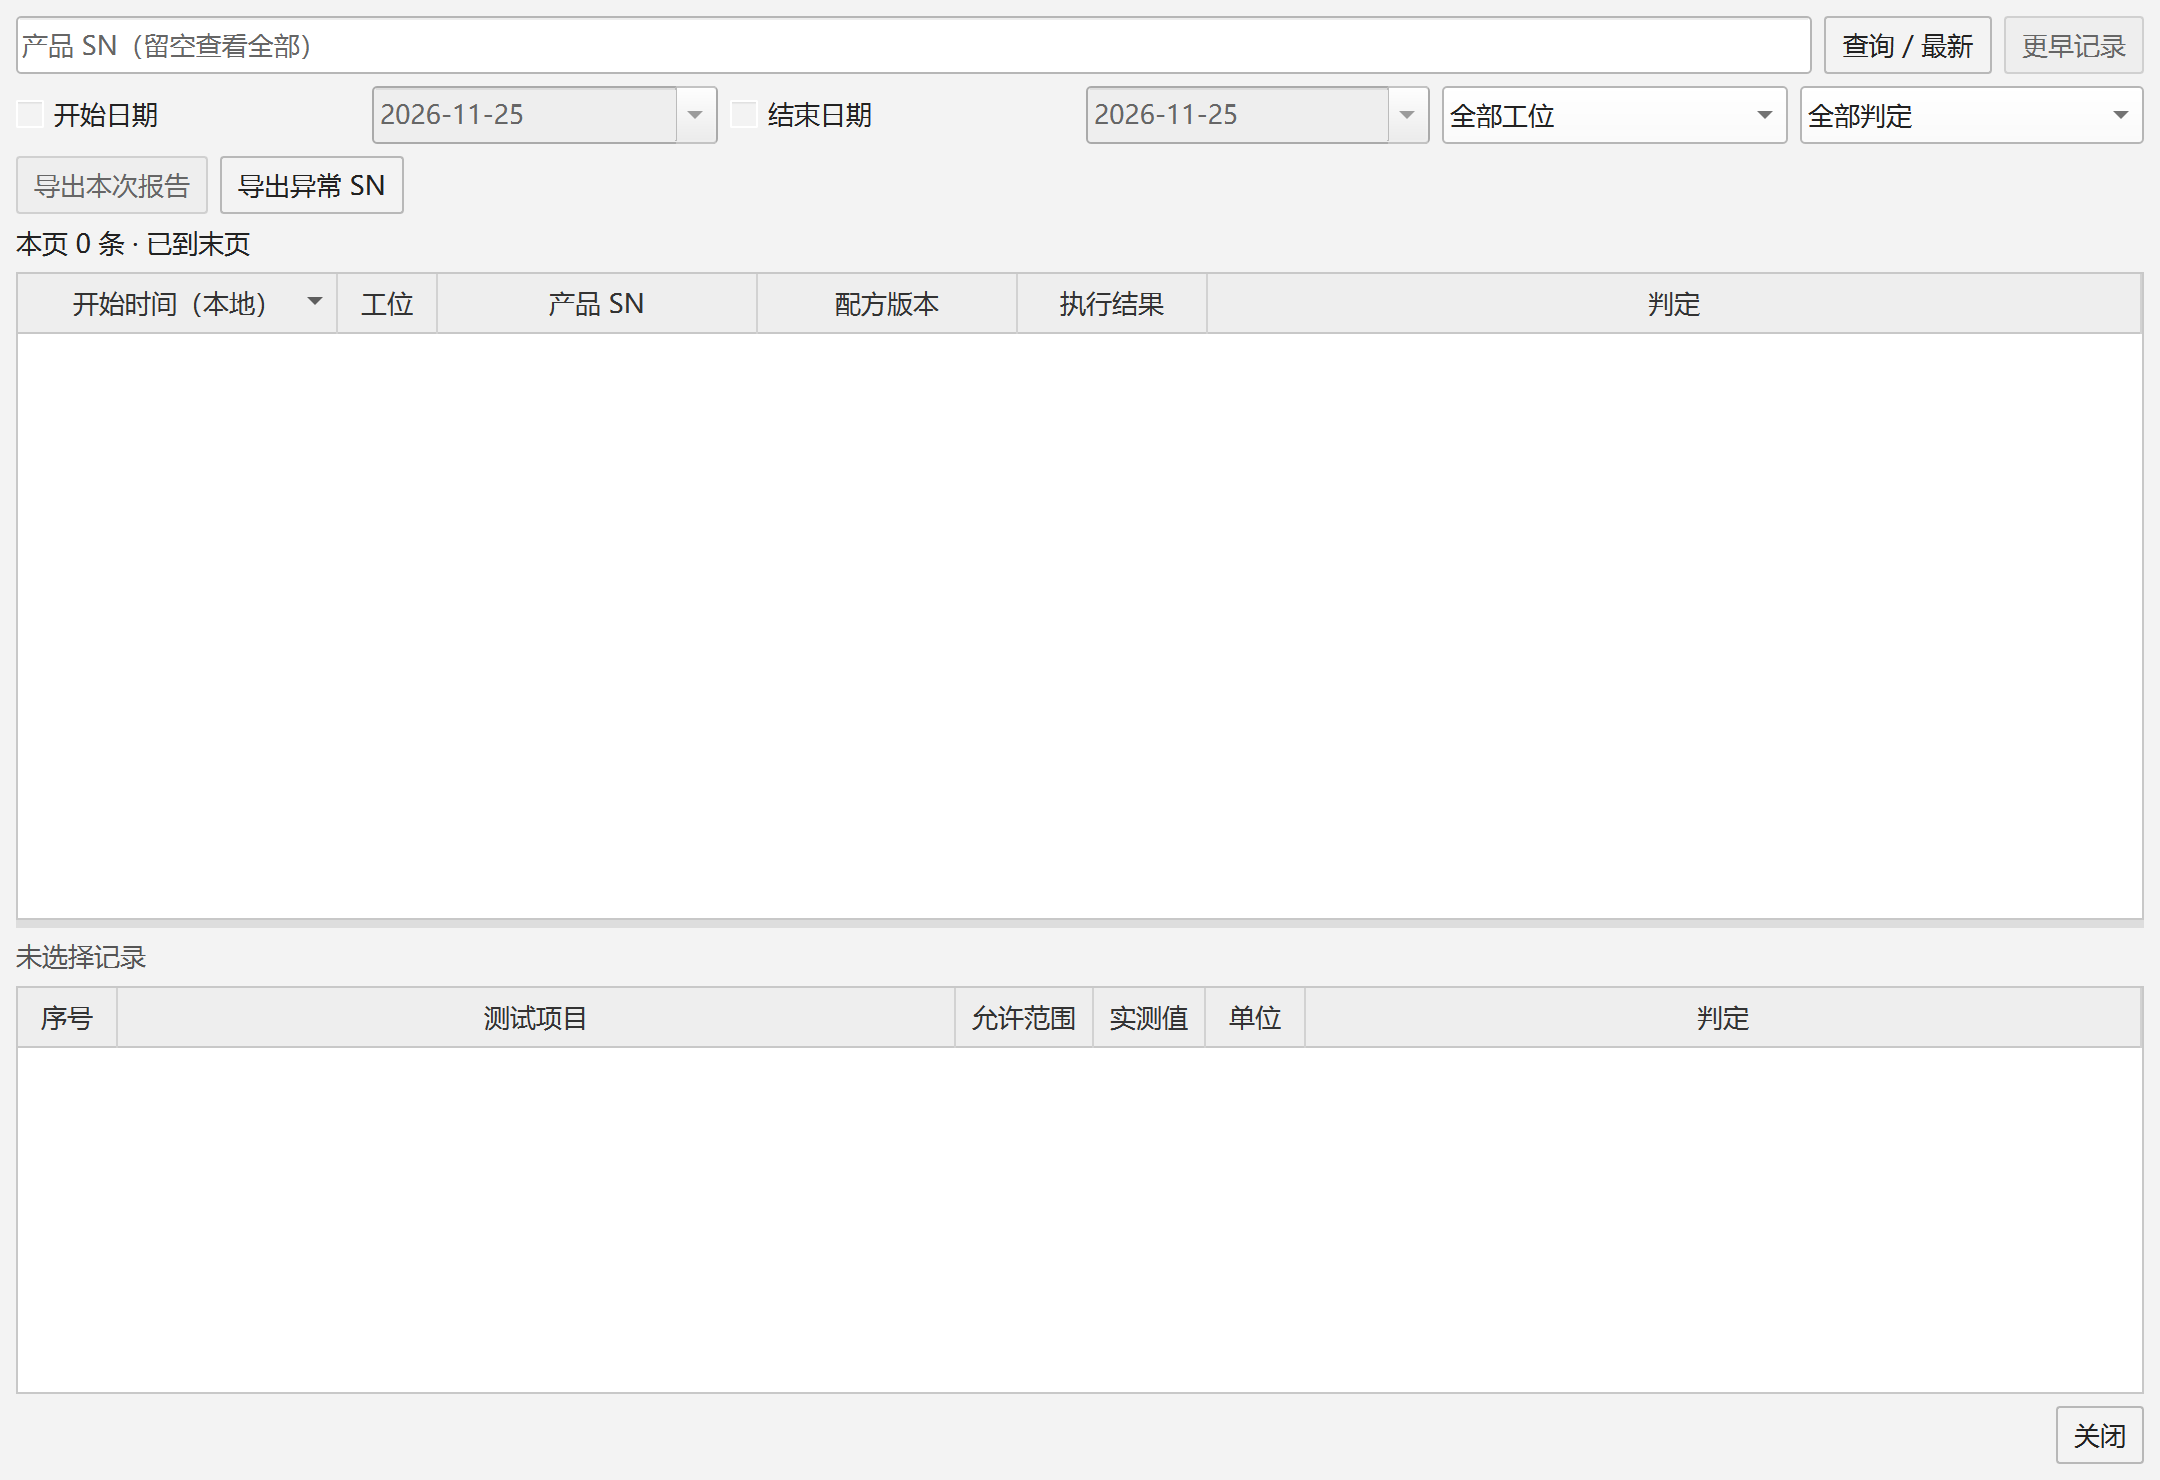
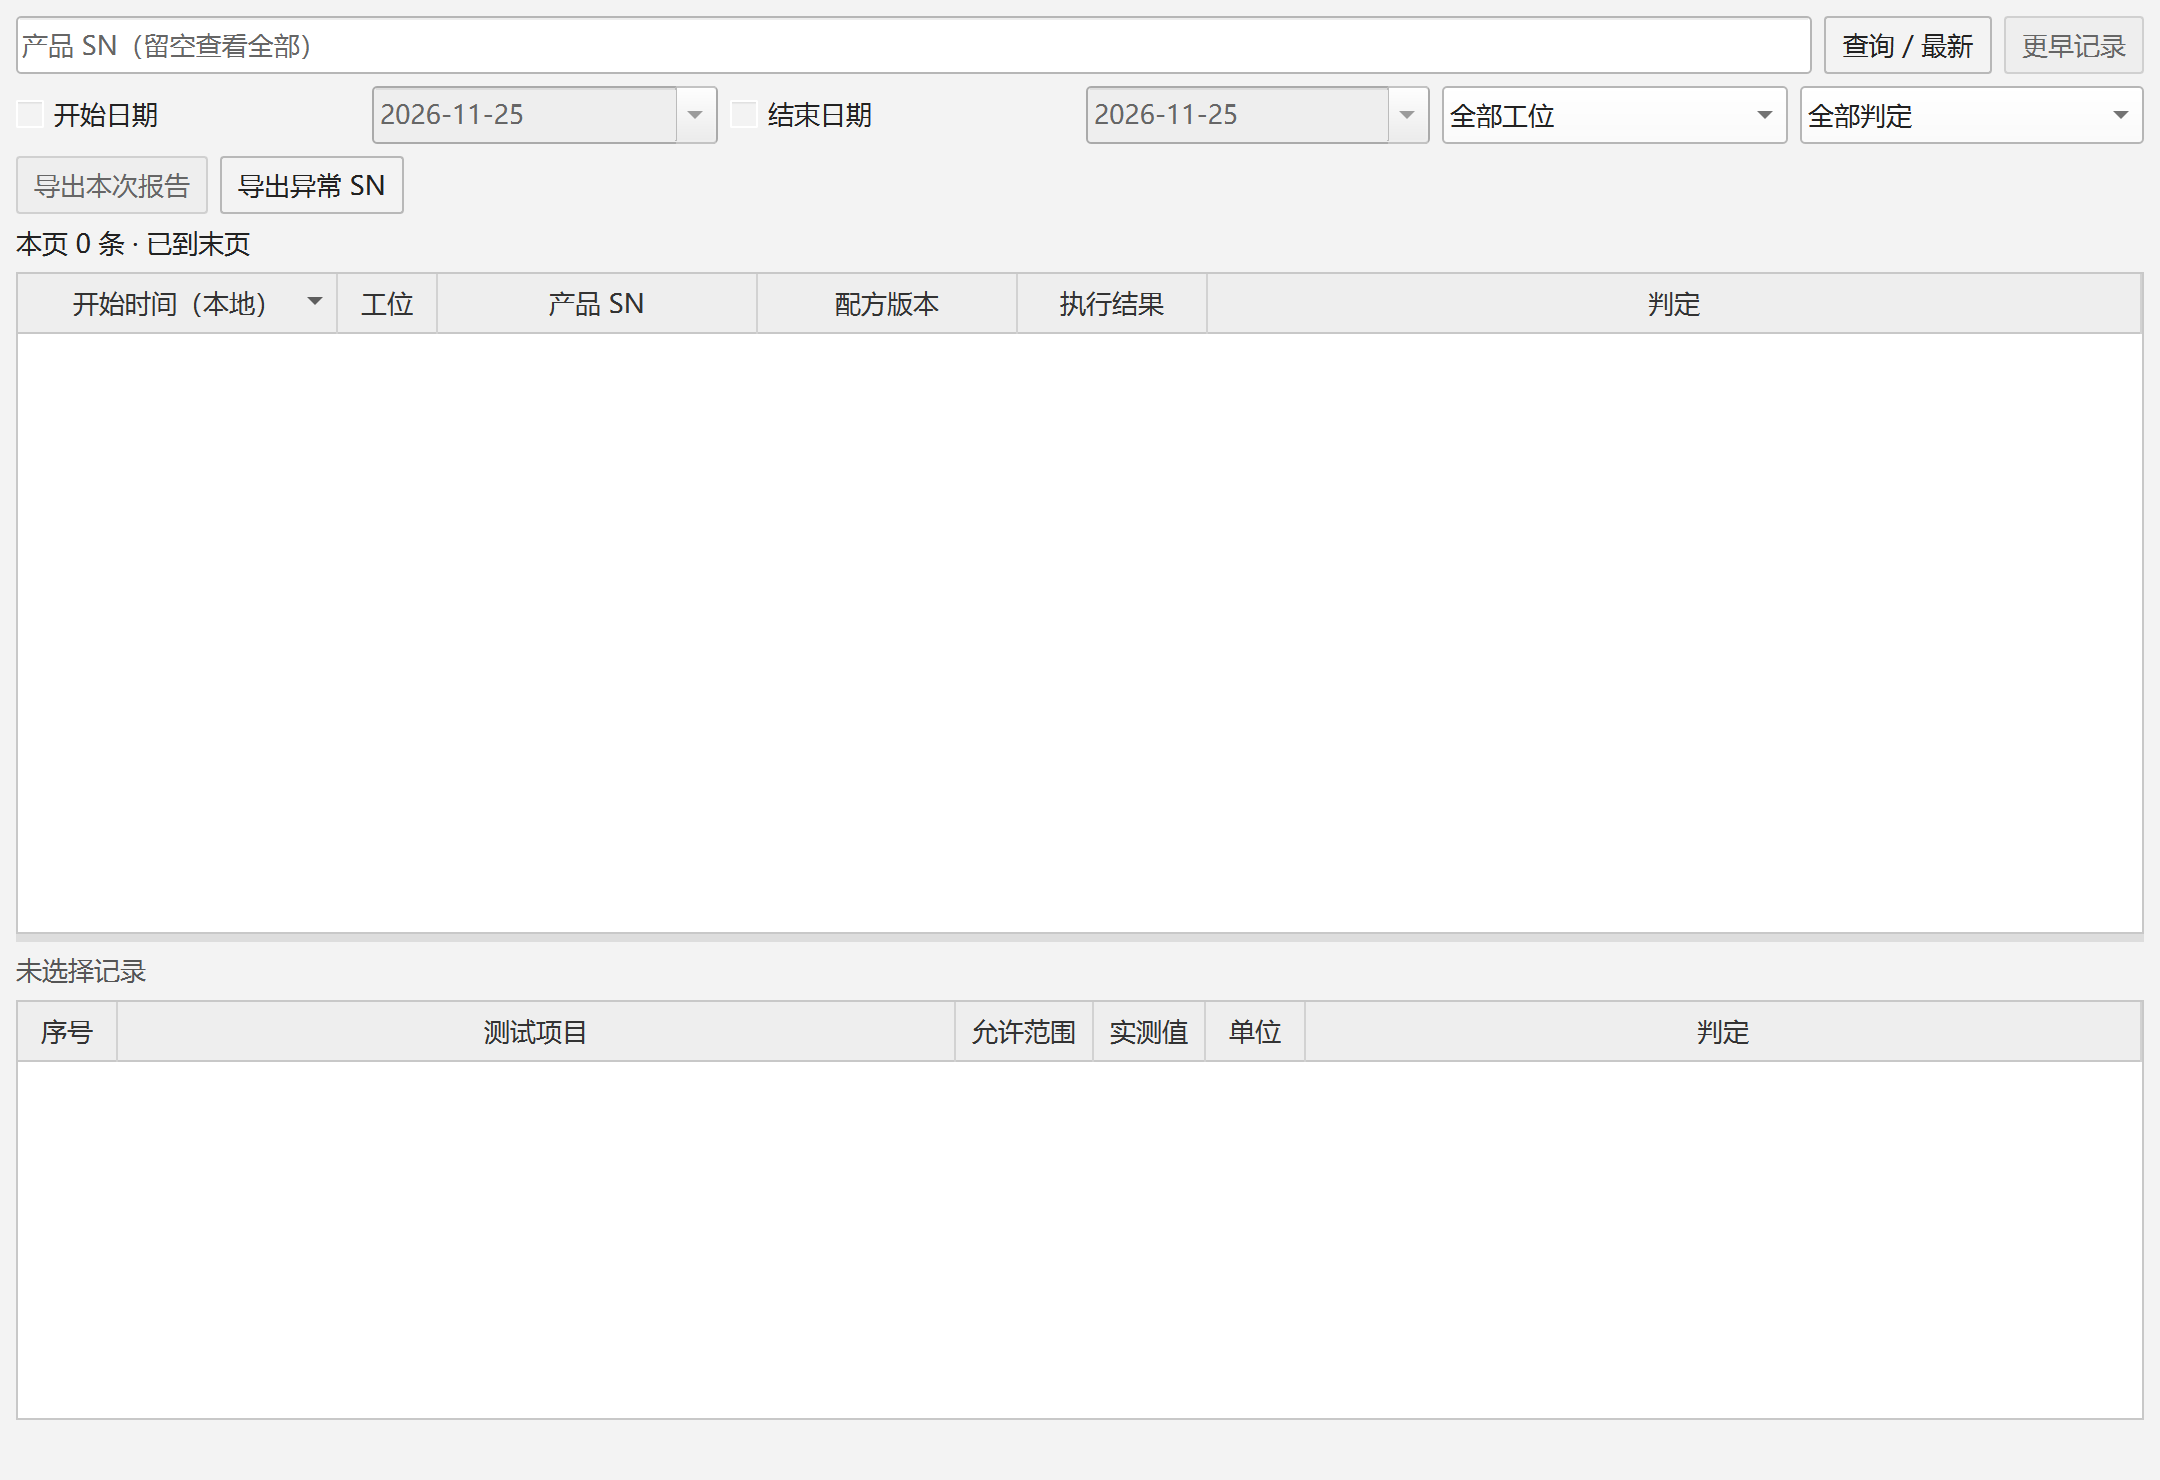
Remove duplicate navigation and dialog close buttons; release 0.3.1

Changed region(s): [[0.0, 0.6216, 0.9926, 0.7149], [0.9306, 0.9324, 0.9926, 0.9946]]

diff --git a/maintenancedialog.cpp b/maintenancedialog.cpp
@@ -3,7 +3,6 @@
 #include "toolstyle.h"
 #include <QCheckBox>
 #include <QDateTime>
-#include <QDialogButtonBox>
 #include <QDir>
 #include <QFileDialog>
 #include <QFileInfo>
@@ -131,11 +130,11 @@ MaintenanceDialog::MaintenanceDialog(WorkbenchController *controller, QWidget *p
     setWindowTitle(QStringLiteral("管理员维护"));
     setStyleSheet(ToolStyle::stylesheet());
     setPalette(ToolStyle::lightPalette());
-    resize(620, 390);
+    resize(620, 350);
     // 限制窗口尺寸，适配当前屏幕可用区域。
     if (auto *screen = QGuiApplication::primaryScreen())
         resize(qMin(620, screen->availableGeometry().width() - 40),
-               qMin(390, screen->availableGeometry().height() - 60));
+               qMin(350, screen->availableGeometry().height() - 60));
     // 保存维护窗口的整体布局。
     auto *layout = new QVBoxLayout(this);
     buildAuthentication(layout);
@@ -168,19 +167,15 @@ MaintenanceDialog::MaintenanceDialog(WorkbenchController *controller, QWidget *p
     m_status = note({}, this);
     m_status->setObjectName("maintenanceStatusLabel");
     m_status->setTextInteractionFlags(Qt::TextSelectableByMouse);
+    m_status->hide();
     layout->addWidget(m_status);
-    // 保存窗口底部刷新和关闭按钮的布局。
+    // 保存维护记录的刷新入口。
     auto *footer = new QHBoxLayout;
     m_refresh = new QPushButton(QStringLiteral("刷新维护记录"), this);
     m_refresh->setObjectName("maintenanceRefreshButton");
     footer->addWidget(m_refresh);
     footer->addStretch();
-    // 使用关闭角色退出维护窗口，不影响工作台运行。
-    auto *buttons = new QDialogButtonBox(QDialogButtonBox::Close, this);
-    buttons->button(QDialogButtonBox::Close)->setText(QStringLiteral("关闭"));
-    footer->addWidget(buttons);
     layout->addLayout(footer);
-    connect(buttons, &QDialogButtonBox::rejected, this, &QDialog::reject);
     connect(m_refresh, &QPushButton::clicked, m_controller,
             &WorkbenchController::refreshMaintenance);
     connect(m_controller, &WorkbenchController::maintenanceReady, this,
@@ -369,7 +364,7 @@ void MaintenanceDialog::buildDataPage()
     backupLayout->addLayout(actions);
     layout->addWidget(backupGroup);
     layout->addStretch();
-    addWindowFooter(m_dataWindow, layout);
+    addWindowStatus(m_dataWindow, layout);
     connect(m_backup, &QPushButton::clicked, this, &MaintenanceDialog::backup);
     connect(m_validate, &QPushButton::clicked, this, &MaintenanceDialog::validateBackup);
     connect(m_restore, &QPushButton::clicked, this, &MaintenanceDialog::restore);
@@ -418,7 +413,7 @@ void MaintenanceDialog::buildTimeoutPage()
     form->addRow(m_saveTimeouts);
     layout->addWidget(timeoutGroup);
     layout->addStretch();
-    addWindowFooter(m_timeoutWindow, layout);
+    addWindowStatus(m_timeoutWindow, layout);
     connect(m_runSeconds, &QSpinBox::valueChanged, this, [this] { m_timeoutDirty = true; });
     connect(m_stepSeconds, &QSpinBox::valueChanged, this, [this] { m_timeoutDirty = true; });
     connect(m_saveTimeouts, &QPushButton::clicked, this,
@@ -496,7 +491,7 @@ void MaintenanceDialog::buildExceptionPage()
     splitter->setStretchFactor(0, 3);
     splitter->setStretchFactor(1, 2);
     layout->addWidget(splitter, 1);
-    addWindowFooter(m_exceptionWindow, layout);
+    addWindowStatus(m_exceptionWindow, layout);
     connect(m_exceptions, &QTableWidget::itemSelectionChanged, this,
             &MaintenanceDialog::updateSelectionActions);
     connect(m_suspended, &QTableWidget::itemSelectionChanged, this,
@@ -523,22 +518,18 @@ void MaintenanceDialog::buildAuditPage()
                   m_auditWindow);
     m_audit->setObjectName("maintenanceAuditTable");
     layout->addWidget(m_audit, 1);
-    addWindowFooter(m_auditWindow, layout);
+    addWindowStatus(m_auditWindow, layout);
 }
 
-void MaintenanceDialog::addWindowFooter(QDialog *window, QVBoxLayout *layout)
+void MaintenanceDialog::addWindowStatus(QDialog *window, QVBoxLayout *layout)
 {
     // 显示当前维护动作的完成状态或错误。
     auto *status = note({}, window);
     status->setObjectName(window->objectName() + "StatusLabel");
     status->setTextInteractionFlags(Qt::TextSelectableByMouse);
+    status->hide();
     layout->addWidget(status);
     m_windowStatuses.append(status);
-    // 关闭当前子窗口，保留已输入的数据和后台任务。
-    auto *buttons = new QDialogButtonBox(QDialogButtonBox::Close, window);
-    buttons->button(QDialogButtonBox::Close)->setText(QStringLiteral("关闭"));
-    layout->addWidget(buttons);
-    connect(buttons, &QDialogButtonBox::rejected, window, &QDialog::reject);
 }
 
 void MaintenanceDialog::openWindow(QDialog *window)
@@ -724,10 +715,12 @@ void MaintenanceDialog::updateSelectionActions()
 void MaintenanceDialog::showMessage(const QString &message, bool error)
 {
     m_status->setText(message);
+    m_status->setVisible(!message.isEmpty());
     m_status->setStyleSheet(error ? "QLabel { color:#a82432; }" : "QLabel { color:#333333; }");
     for (auto *status : m_windowStatuses)
     {
         status->setText(message);
+        status->setVisible(!message.isEmpty());
         status->setStyleSheet(error ? "QLabel { color:#a82432; }" : "QLabel { color:#333333; }");
     }
 }

diff --git a/logdialog.cpp b/logdialog.cpp
@@ -6,7 +6,6 @@
 #include <QHBoxLayout>
 #include <QLabel>
 #include <QListView>
-#include <QPushButton>
 #include <QScreen>
 #include <QScrollBar>
 #include <QVBoxLayout>
@@ -25,7 +24,7 @@ LogDialog::LogDialog(WorkbenchController *controller, QWidget *parent)
     if (auto *screen = QGuiApplication::primaryScreen())
         resize(qMin(920, screen->availableGeometry().width() - 40),
                qMin(600, screen->availableGeometry().height() - 60));
-    // 排列日志列表和窗口操作按钮。
+    // 排列日志列表和条数。
     auto *layout = new QVBoxLayout(this);
     m_logView = new QListView(this);
     m_logView->setObjectName("logView");
@@ -34,18 +33,13 @@ LogDialog::LogDialog(WorkbenchController *controller, QWidget *parent)
     m_logView->setWordWrap(true);
     m_logView->setSelectionMode(QAbstractItemView::ExtendedSelection);
     layout->addWidget(m_logView, 1);
-    // 保持关闭入口位于列表之外。
+    // 在列表下方显示当前缓存条数。
     auto *footer = new QHBoxLayout;
     m_count = new QLabel(QStringLiteral("0 条"), this);
     m_count->setObjectName("logCountLabel");
     footer->addWidget(m_count);
     footer->addStretch();
-    // 关闭仅隐藏窗口，后台缓存继续更新。
-    auto *close = new QPushButton(QStringLiteral("关闭"), this);
-    close->setObjectName("closeLogButton");
-    footer->addWidget(close);
     layout->addLayout(footer);
-    connect(close, &QPushButton::clicked, this, &QDialog::close);
     connect(controller, &WorkbenchController::logMessage, this,
             [this](const QString &text, bool warning)
             {

diff --git a/mainwindow.cpp b/mainwindow.cpp
@@ -21,7 +21,6 @@
 #include <QJsonDocument>
 #include <QLabel>
 #include <QLineEdit>
-#include <QMenuBar>
 #include <QMessageBox>
 #include <QPushButton>
 #include <QScreen>
@@ -202,11 +201,6 @@ void MainWindow::buildNavigation()
     navigation->addAction(logs);
     navigation->addSeparator();
     navigation->addAction(maintenance);
-    // 菜单与工具栏使用同一动作，避免创建重复窗口。
-    auto *windows = menuBar()->addMenu(QStringLiteral("窗口"));
-    windows->addAction(history);
-    windows->addAction(logs);
-    menuBar()->addMenu(QStringLiteral("维护"))->addAction(maintenance);
     connect(history, &QAction::triggered, this, [this] { openWindow(m_historyDialog); });
     connect(logs, &QAction::triggered, this, [this] { openWindow(m_logDialog); });
     connect(maintenance, &QAction::triggered, this,

diff --git a/maintenancedialog.h b/maintenancedialog.h
@@ -35,8 +35,8 @@ class MaintenanceDialog final : public QDialog
     void buildExceptionPage();
     // 构建最近一百条维护记录表。
     void buildAuditPage();
-    // 为维护子窗口添加操作结果和关闭按钮。
-    void addWindowFooter(QDialog *window, QVBoxLayout *layout);
+    // 为维护子窗口添加动态操作结果。
+    void addWindowStatus(QDialog *window, QVBoxLayout *layout);
     // 核验会话后打开指定维护子窗口。
     void openWindow(QDialog *window);
     // 接收 overview 后更新异常、工位、审计和配置快照。

diff --git a/historydialog.cpp b/historydialog.cpp
@@ -281,12 +281,7 @@ void HistoryDialog::buildUi()
     m_status->setObjectName("historyStatus");
     m_status->setWordWrap(true);
     footer->addWidget(m_status, 1);
-    // 关闭仅隐藏历史窗口，查询与导出继续由共享控制器完成。
-    auto *close = new QPushButton(QStringLiteral("关闭"), this);
-    close->setObjectName("closeHistoryButton");
-    footer->addWidget(close);
     historyLayout->addLayout(footer);
-    connect(close, &QPushButton::clicked, this, &QDialog::close);
 }
 void HistoryDialog::showHistorySelection()
 {

diff --git a/docs/VALIDATION.md b/docs/VALIDATION.md
@@ -197,3 +197,11 @@ Qt Creator 当前套件构建目录重新编译主程序成功；Release在 `BUI
 按进一步要求拆分界面：主窗口仅显示工位和当前测试，历史追溯、运行日志、管理员维护独立；维护中心的备份恢复、超时、异常处置、操作记录再分别打开子窗口。清除静态说明段落、原hint和配方JSON工具提示，保留必要动态状态及实际操作确认。隐藏子窗口持续采集日志和历史，关闭主窗同步关闭各子窗并停止后台。
 
 拆窗后的最终回归再次通过13/13组、132项检查，0失败/0跳过，耗时84.42秒，包含100轮连续归档。新增真实TCP验证关闭历史/日志子窗时当前测试仍继续、隐藏期间日志和历史仍更新、重开复用原对象；界面测试覆盖主窗关闭所有子窗、维护中心退出清空密码和四个独立维护窗口。Windows平台另通过6项原生图形检查，检查主窗及所有业务子窗截图清晰、布局完整，证据位于 `build/v030-windows/`。
+
+## 0.3.1 窗口入口与关闭操作精简（2026-11-25）
+
+主窗口保留历史追溯、运行日志、管理员维护三个工具栏入口，移除重复的窗口和维护菜单；帮助菜单继续提供版本信息。历史、日志、维护中心及四个维护子窗口移除底部关闭按钮，统一使用标题栏 ×。维护中心缩小初始高度，空操作状态不占空间，有实际操作结果时再显示。关闭历史或日志仍隐藏并复用原窗口，关闭维护中心仍清空密码、退出会话并关闭其子窗口。
+
+重新编译主程序和两个相关测试目标，既有 WindowTests 的10项、WindowSimulatorTests 的4项检查全部通过，0失败、0跳过。真实TCP联调验证测试执行中关闭历史和日志后，测试继续完成并归档，隐藏期间日志与历史继续更新，重开显示原对象。首次受限环境中的TCP连接未就绪，在受限环境外运行同一联调目标后2.67秒通过；普通窗口目标2.63秒通过。
+
+实际Windows图形平台另通过6项检查，覆盖维护认证、七个业务子窗口的关闭重开、主窗口退出以及深浅主题双向切换。人工核对主窗口及各业务子窗口截图，重复入口和底部关闭按钮已移除，文本和操作结果清晰。证据在本机 `build/v031-windows/`，文档预览同步更新。本次只调整界面入口及布局，没有重跑未修改的协议、存储、批量流程及性能基准。

diff --git a/README.md b/README.md
@@ -18,7 +18,7 @@
 
 连接正常但业务应答缺失时，程序会退避重查原测试的状态。操作员也可在允许核对时点击“重新核对”；查询不会重新启动测试，也不会将未知结果直接判为完成。长期离线或设备无法提供结果时继续保留占用，需要恢复原设备后核对。
 
-主窗口保留工位状态、产品与配方、当前测试。顶栏可分别打开“历史追溯”“运行日志”“管理员维护”子窗口；关闭子窗口不停止测试，关闭主窗口会一并关闭子窗口并停止后台。
+主窗口保留工位状态、产品与配方、当前测试。顶栏按钮分别打开“历史追溯”“运行日志”“管理员维护”子窗口，各入口只保留一处。所有业务子窗口使用标题栏右上角的 × 关闭；关闭子窗口不停止测试，关闭主窗口会一并关闭子窗口并停止后台。
 
 界面预览：[主窗口](docs/workbench-preview.png)、[历史追溯](docs/history-preview.png)、[维护中心](docs/maintenance-preview.png)。
 
@@ -82,7 +82,7 @@ powershell -NoProfile -ExecutionPolicy Bypass -File .\scripts\package.ps1
 powershell -NoProfile -ExecutionPolicy Bypass -File .\scripts\smoke-portable.ps1
 ```
 
-主程序包位于 `dist/StationTestWorkbench-0.3.0-win64.zip`，只包含工作台及所需 Qt 运行库。打包名称从 CMake 项目版本读取，每次使用全新的暂存目录，只复制已纳入版本控制的说明和配方，运行数据不进入 ZIP。重复打包时，旧便携目录连同其中的本地数据保存在 `build/package-backup-*`，新包保持干净。模拟器使用另一工程的打包脚本，生成单独的 `StationSimulator-0.1.0-win64.zip`。主程序部署验证允许工位离线，确认独立启动、SQLite、日志以及版本和文件哈希一致。
+主程序包位于 `dist/StationTestWorkbench-0.3.1-win64.zip`，只包含工作台及所需 Qt 运行库。打包名称从 CMake 项目版本读取，每次使用全新的暂存目录，只复制已纳入版本控制的说明和配方，运行数据不进入 ZIP。重复打包时，旧便携目录连同其中的本地数据保存在 `build/package-backup-*`，新包保持干净。模拟器使用另一工程的打包脚本，生成单独的 `StationSimulator-0.1.0-win64.zip`。主程序部署验证允许工位离线，确认独立启动、SQLite、日志以及版本和文件哈希一致。
 
 ## 配方与一致性
 
